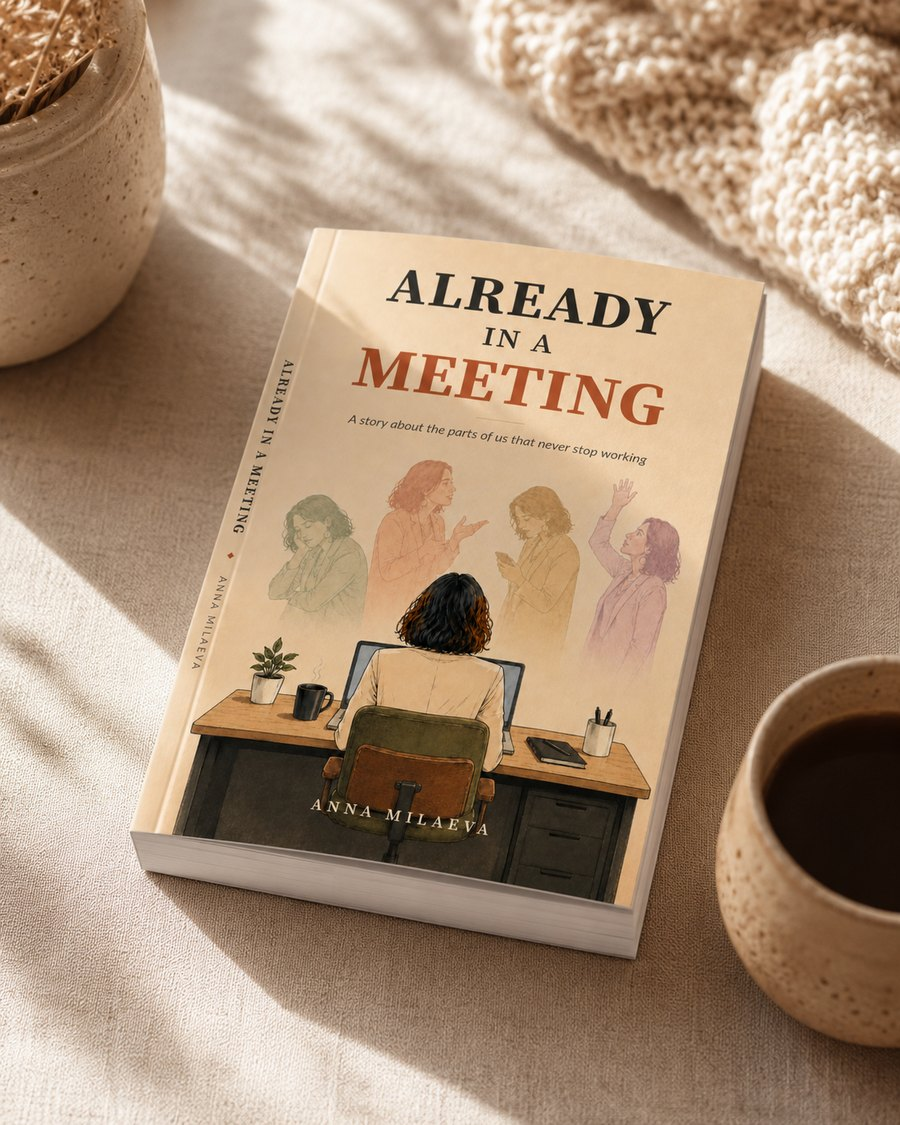
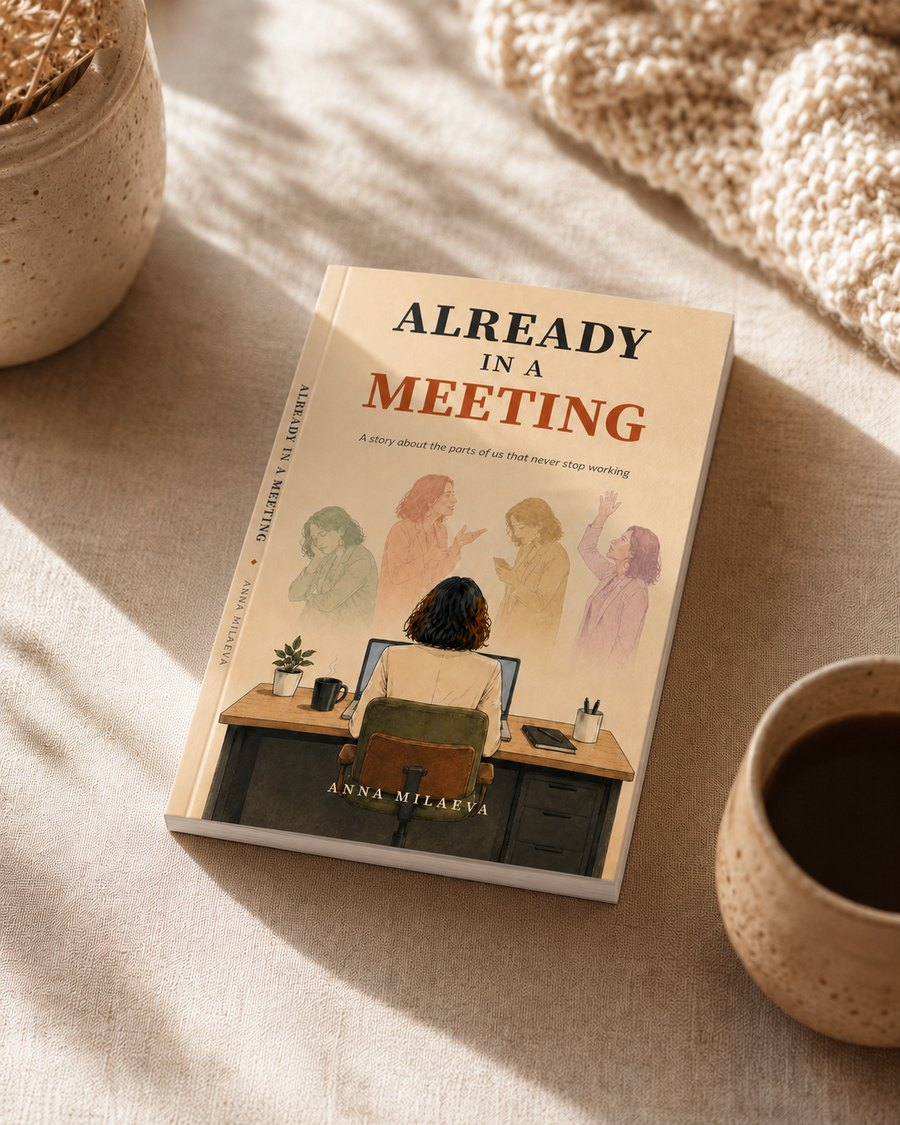
Swap in thinner paperback mockup for the novella

diff --git a/es/reflexiones.html b/es/reflexiones.html
@@ -119,7 +119,7 @@
       <div class="grid-2 fade-in">
         <div style="display: flex; justify-content: center;">
           <a href="https://www.amazon.com/dp/B0HD3GVY6Z/" target="_blank" rel="noopener noreferrer">
-            <img src="/book-cozy.jpg" alt="Already In A Meeting, una novela de Anna Milaeva" loading="lazy" style="max-width: 340px; width: 100%; height: auto; border-radius: 12px; box-shadow: 0 8px 32px rgba(0,0,0,0.12);">
+            <img src="/book-cozy.jpg?v=2" alt="Already In A Meeting, una novela de Anna Milaeva" loading="lazy" style="max-width: 340px; width: 100%; height: auto; border-radius: 12px; box-shadow: 0 8px 32px rgba(0,0,0,0.12);">
           </a>
         </div>
         <div>

diff --git a/es/index.html b/es/index.html
@@ -123,7 +123,7 @@
       <div class="grid-2" style="align-items: center;">
         <div style="display: flex; justify-content: center;">
           <a href="https://www.amazon.com/dp/B0HD3GVY6Z/" target="_blank" rel="noopener noreferrer">
-            <img src="/book-cozy.jpg" alt="Already In A Meeting, una novela de Anna Milaeva" style="max-width: 340px; width: 100%; height: auto; border-radius: 12px; box-shadow: 0 16px 48px rgba(0,0,0,0.45);">
+            <img src="/book-cozy.jpg?v=2" alt="Already In A Meeting, una novela de Anna Milaeva" style="max-width: 340px; width: 100%; height: auto; border-radius: 12px; box-shadow: 0 16px 48px rgba(0,0,0,0.45);">
           </a>
         </div>
         <div>

diff --git a/writing.html b/writing.html
@@ -116,7 +116,7 @@
       <div class="grid-2 fade-in">
         <div style="display: flex; justify-content: center;">
           <a href="https://www.amazon.com/dp/B0HD3GVY6Z/" target="_blank" rel="noopener noreferrer">
-            <img src="book-cozy.jpg" alt="Already In A Meeting, a novel by Anna Milaeva" loading="lazy" style="max-width: 340px; width: 100%; height: auto; border-radius: 12px; box-shadow: 0 8px 32px rgba(0,0,0,0.12);">
+            <img src="book-cozy.jpg?v=2" alt="Already In A Meeting, a novel by Anna Milaeva" loading="lazy" style="max-width: 340px; width: 100%; height: auto; border-radius: 12px; box-shadow: 0 8px 32px rgba(0,0,0,0.12);">
           </a>
         </div>
         <div>

diff --git a/index.html b/index.html
@@ -121,7 +121,7 @@
       <div class="grid-2" style="align-items: center;">
         <div style="display: flex; justify-content: center;">
           <a href="https://www.amazon.com/dp/B0HD3GVY6Z/" target="_blank" rel="noopener noreferrer">
-            <img src="book-cozy.jpg" alt="Already In A Meeting, a novel by Anna Milaeva" style="max-width: 340px; width: 100%; height: auto; border-radius: 12px; box-shadow: 0 16px 48px rgba(0,0,0,0.45);">
+            <img src="book-cozy.jpg?v=2" alt="Already In A Meeting, a novel by Anna Milaeva" style="max-width: 340px; width: 100%; height: auto; border-radius: 12px; box-shadow: 0 16px 48px rgba(0,0,0,0.45);">
           </a>
         </div>
         <div>
